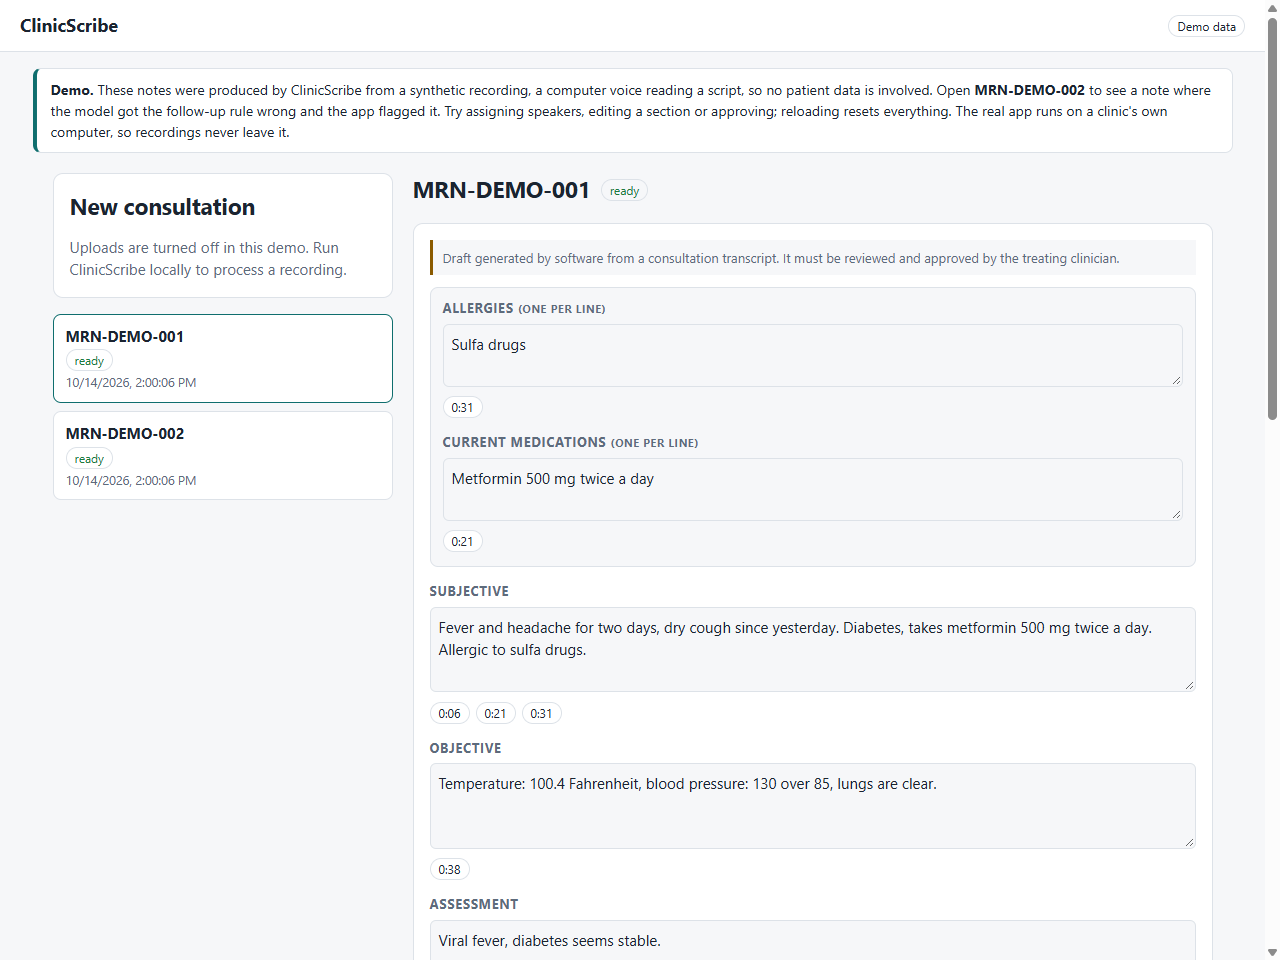
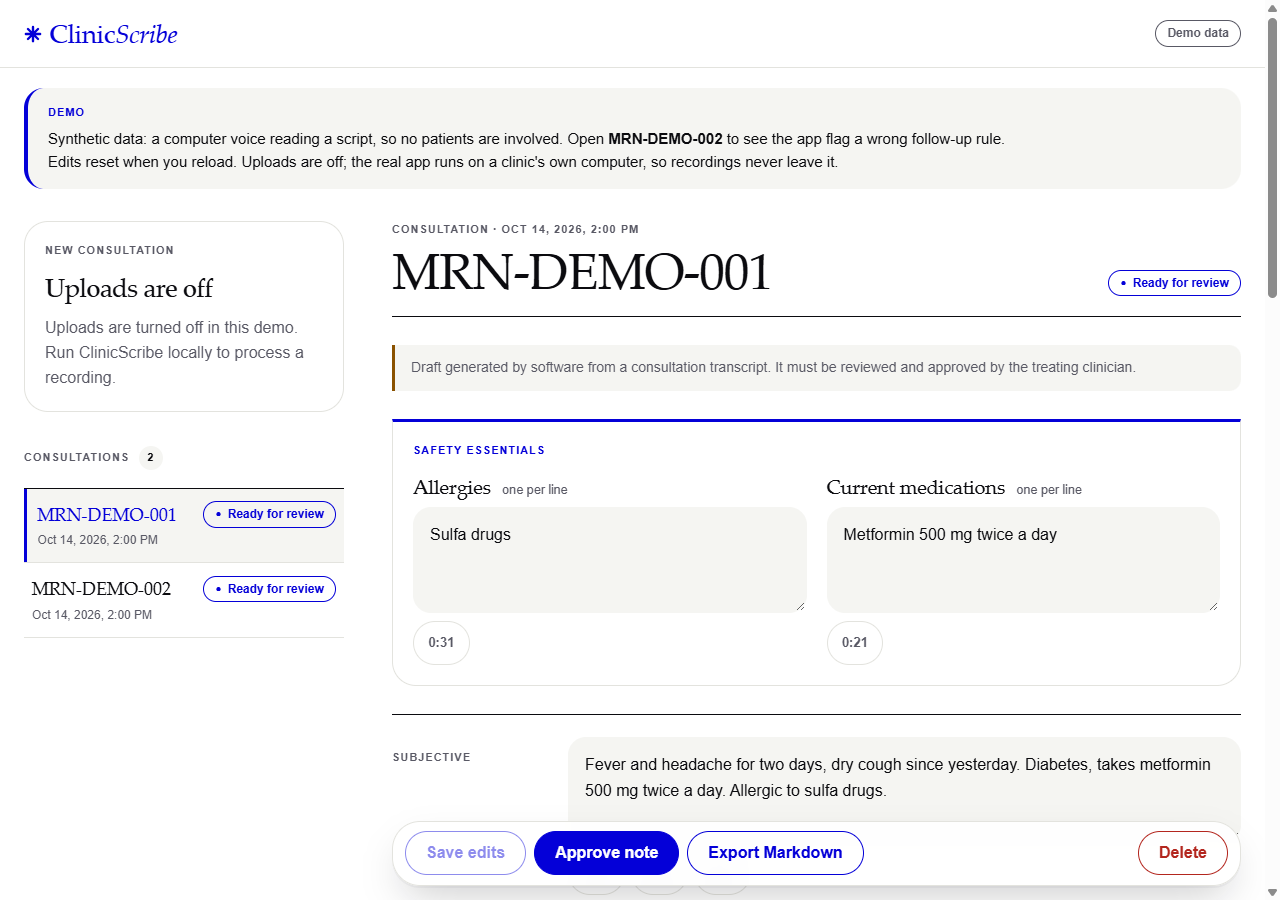
Refresh screenshots and write up what the redesign found

diff --git a/ClinicScribe/README.md b/ClinicScribe/README.md
@@ -30,6 +30,31 @@ Captured from the live demo. The recording behind them is a synthetic computer v
 **The transcript.** Speakers are labelled acoustically and the clinician says who is
 who; a label appears where the speaker changes.
 
+| | |
+|---|---|
+| ![The flagged note in the dark theme](docs/screenshots/dark.png) | ![The flagged note on a phone, with the safety flag on the first screen](docs/screenshots/mobile.png) |
+| **Dark theme**, which follows the device. Flag text keeps at least 4.5:1 contrast. | **On a phone**, the safety flag is on the first screen and nothing floats over it. |
+
+### Interface
+
+The interface shares its visual system with the [Accessible Reader](../AccessibleReader/):
+ultramarine on paper, serif headings, tiny uppercase labels, hairline rules and pill
+controls. For a clinical tool it is deliberately calmer: no decorative motion, and the
+design serves safety before style.
+
+- **Safety flags are unmissable.** A full-width card with a warning icon, the words
+  "Safety flag", and a red rule. The text is ink on a tint, not red on red, so it stays
+  readable. Each is announced as an alert to assistive technology.
+- **Status is never colour alone.** Every status carries a word and a glyph: "Ready for
+  review", "Approved", "Processing", "Failed".
+- **A disabled button explains itself.** Approve says why it is unavailable ("Tick the
+  box above to confirm you have checked the flagged items", or "Save your edits before
+  approving") and the button points at that text for screen readers.
+- **Approval locks the note.** Text boxes and speaker roles become read-only, and stay
+  fully readable.
+- **Actions stay in reach** on a desktop in a floating bar. On a phone that bar sits at
+  the end of the note instead, because a floating bar covered a safety flag there.
+
 ## How it works
 
 ```mermaid
@@ -82,7 +107,19 @@ cd frontend && npm install && npm run dev        # http://localhost:5173
 Or with Docker (VoiceStudio and Ollama stay on the host): `docker compose up --build`,
 then open http://localhost:8080.
 
-Run the tests: `cd backend && python -m pytest`.
+Run the tests:
+
+```bash
+cd backend && python -m pytest            # 52 backend tests
+cd frontend && npm test                   # colour contrast of every text/background pair, light and dark
+```
+
+The interface also has a real-browser test of the demo build: 44 checks covering the
+acknowledgement gate, the explanations for disabled buttons, locking after approval,
+keyboard use, 44 px targets, readable flag and status contrast in both themes, the phone
+layout (including that nothing covers a flag), and that the session sends nothing
+anywhere. Build the demo, serve it, and run
+`node frontend/e2e/browser-test.mjs <path to chrome> <url> <screenshot folder>`.
 
 ### Speech-to-text engine
 

diff --git a/ClinicScribe/docs/design-notes.md b/ClinicScribe/docs/design-notes.md
@@ -91,6 +91,28 @@ product's promise is that recordings never leave the clinic, so it is not hosted
 The public demo serves two notes that the real pipeline produced from a synthetic
 clip, one clean and one the checks flagged, and the review controls work on them.
 
+## 8. The interface redesign found safety problems
+
+Restyling the interface in the same system as the Accessible Reader was meant to be a
+visual change, but looking at real screenshots turned up four problems that matter for
+a safety tool.
+
+- **The safety flags were below the first screen on a phone.** A banner and a card sat
+  above them. The copy is shorter, the redundant card is hidden on phones, and a test
+  now fails if a flag is not on the first screen.
+- **A floating action bar covered a flag's text on a phone.** Always-reachable buttons
+  suit a desktop, but on a small screen they hid the very information they sat above.
+  On a phone the bar is now part of the page, and a test checks directly whether
+  anything covers a flag.
+- **The note's text boxes had no accessible name.** A heading sat above each one but was
+  not tied to it, so a screen reader announced an unlabelled box. They are now labelled.
+- **Any failed action replaced the whole note with an error.** The error now appears
+  next to the actions and the note stays on screen.
+
+I also checked that the new test can fail, since it passed first time: I removed the
+acknowledgement gate from the source on purpose, and the test failed on exactly that
+check. The gate was then restored.
+
 ## What is not verified
 
 - Real human speech: accents, noise, overlapping talk, Hinglish. Nothing here has
@@ -100,3 +122,6 @@ clip, one clean and one the checks flagged, and the review controls work on them
   named differently in the note and the recording, passes unchecked.
 - Medications have no deterministic backstop of the kind allergies have.
 - No user login, and the database is not encrypted at rest.
+- The interface has not been tried with a screen reader or by clinicians. The structure
+  is checked by automation, so treat accessibility as built to the guidance, not
+  verified.
